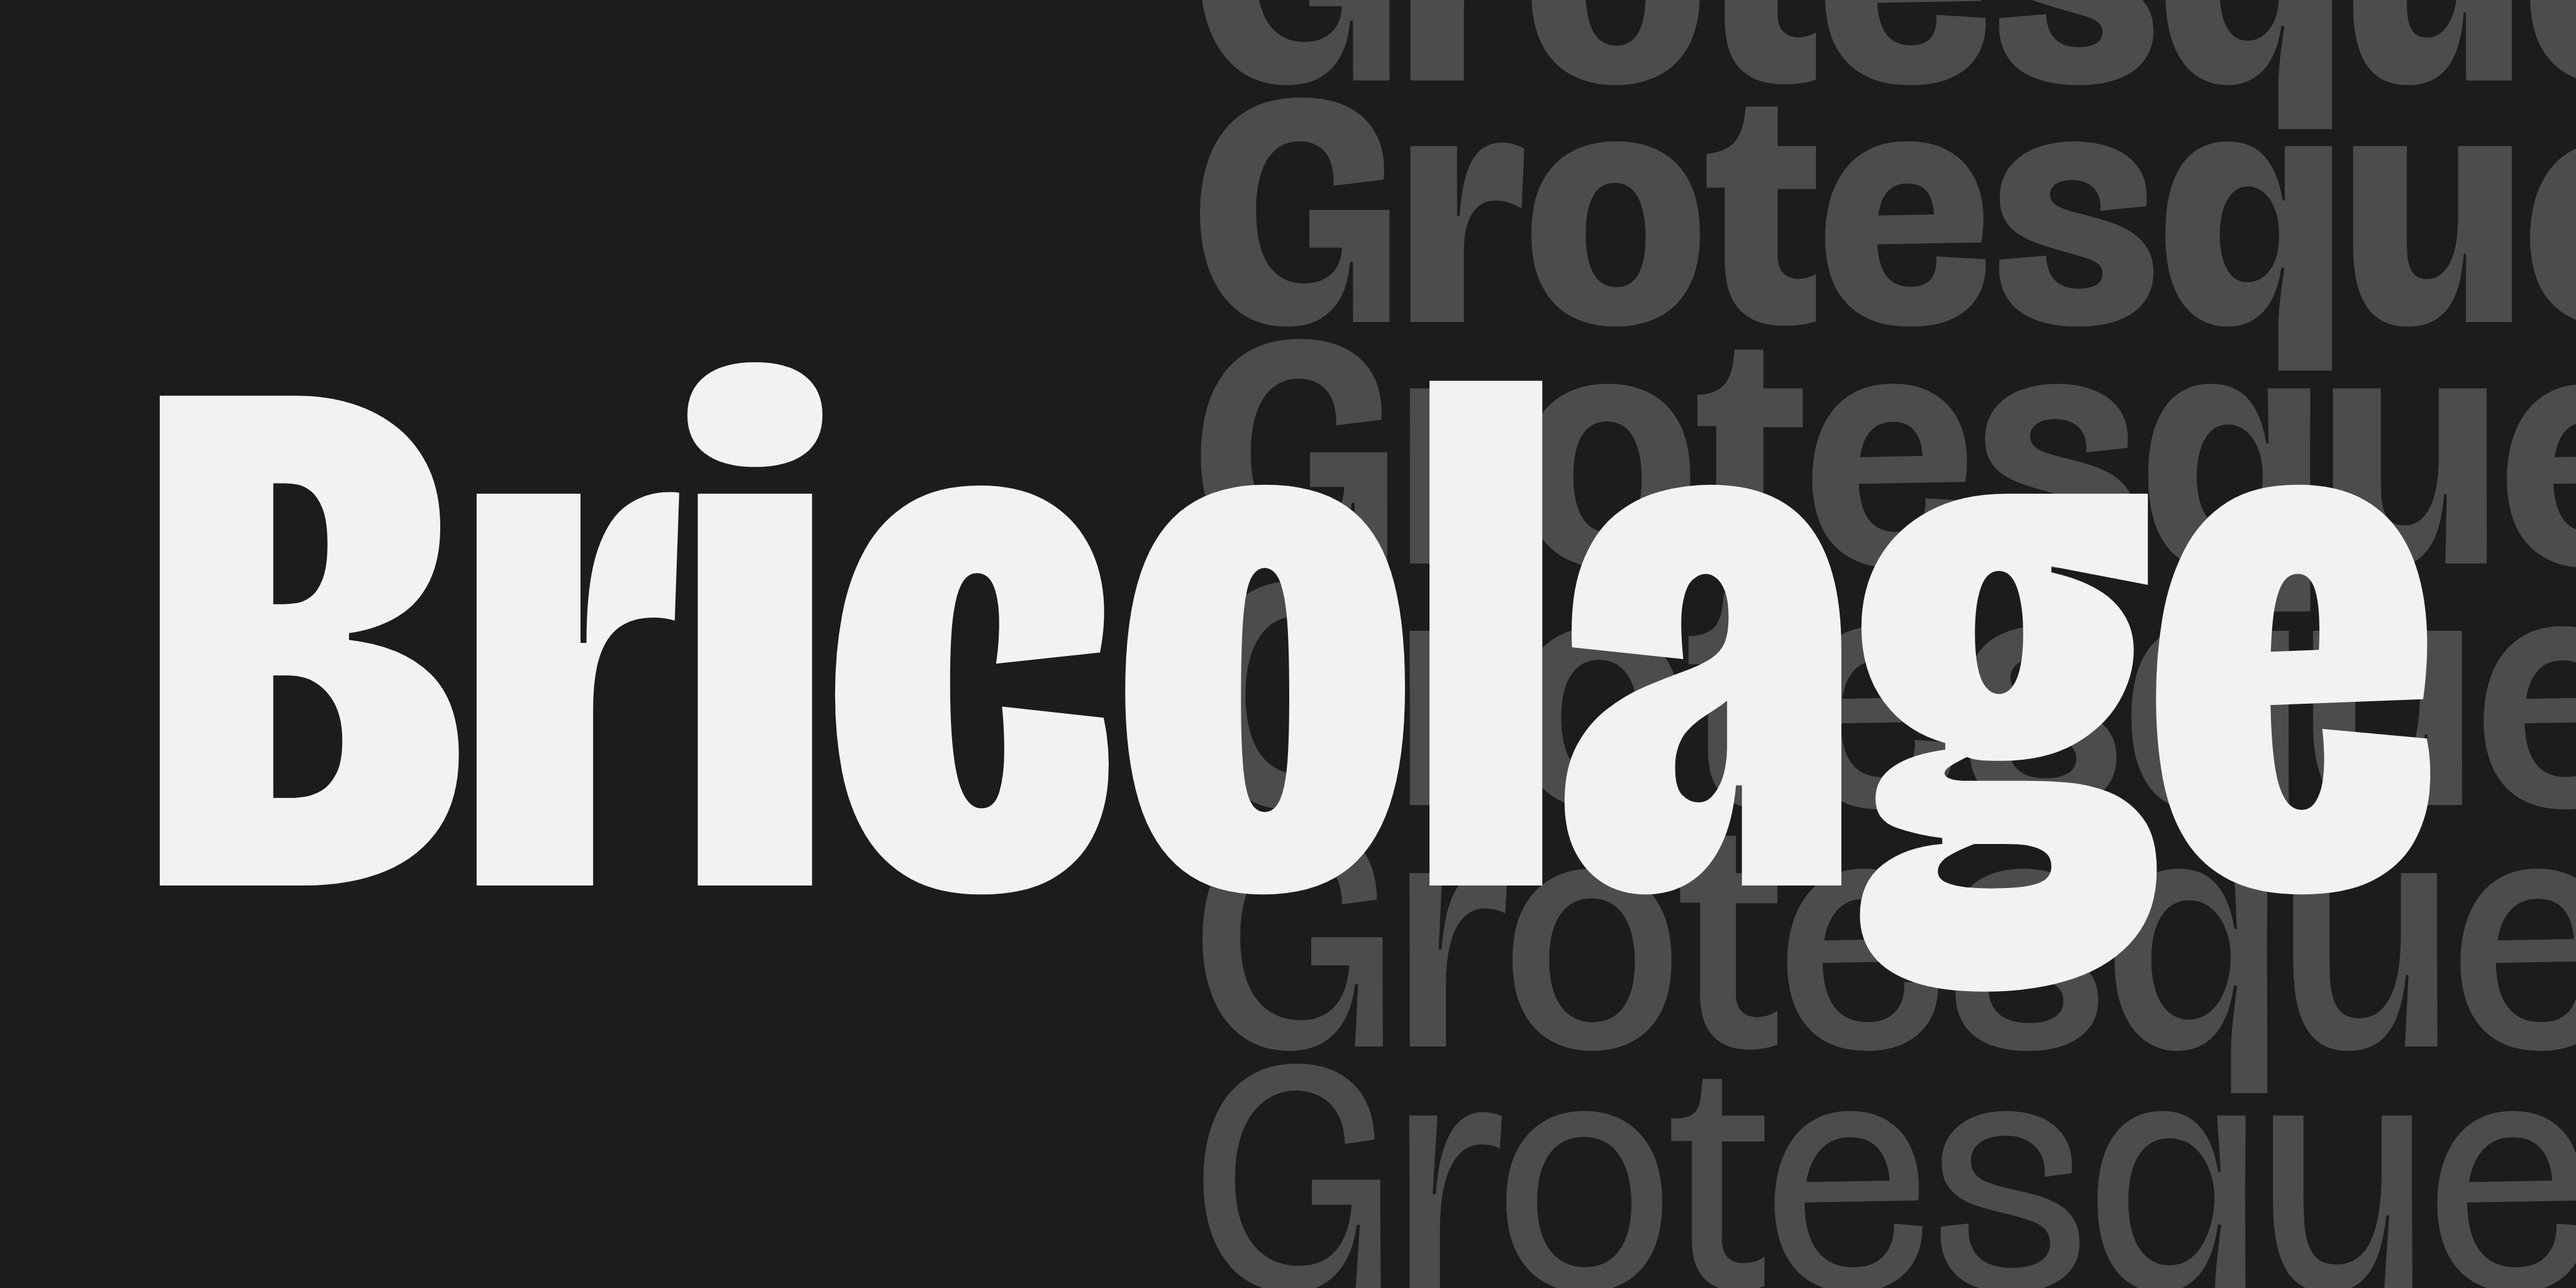
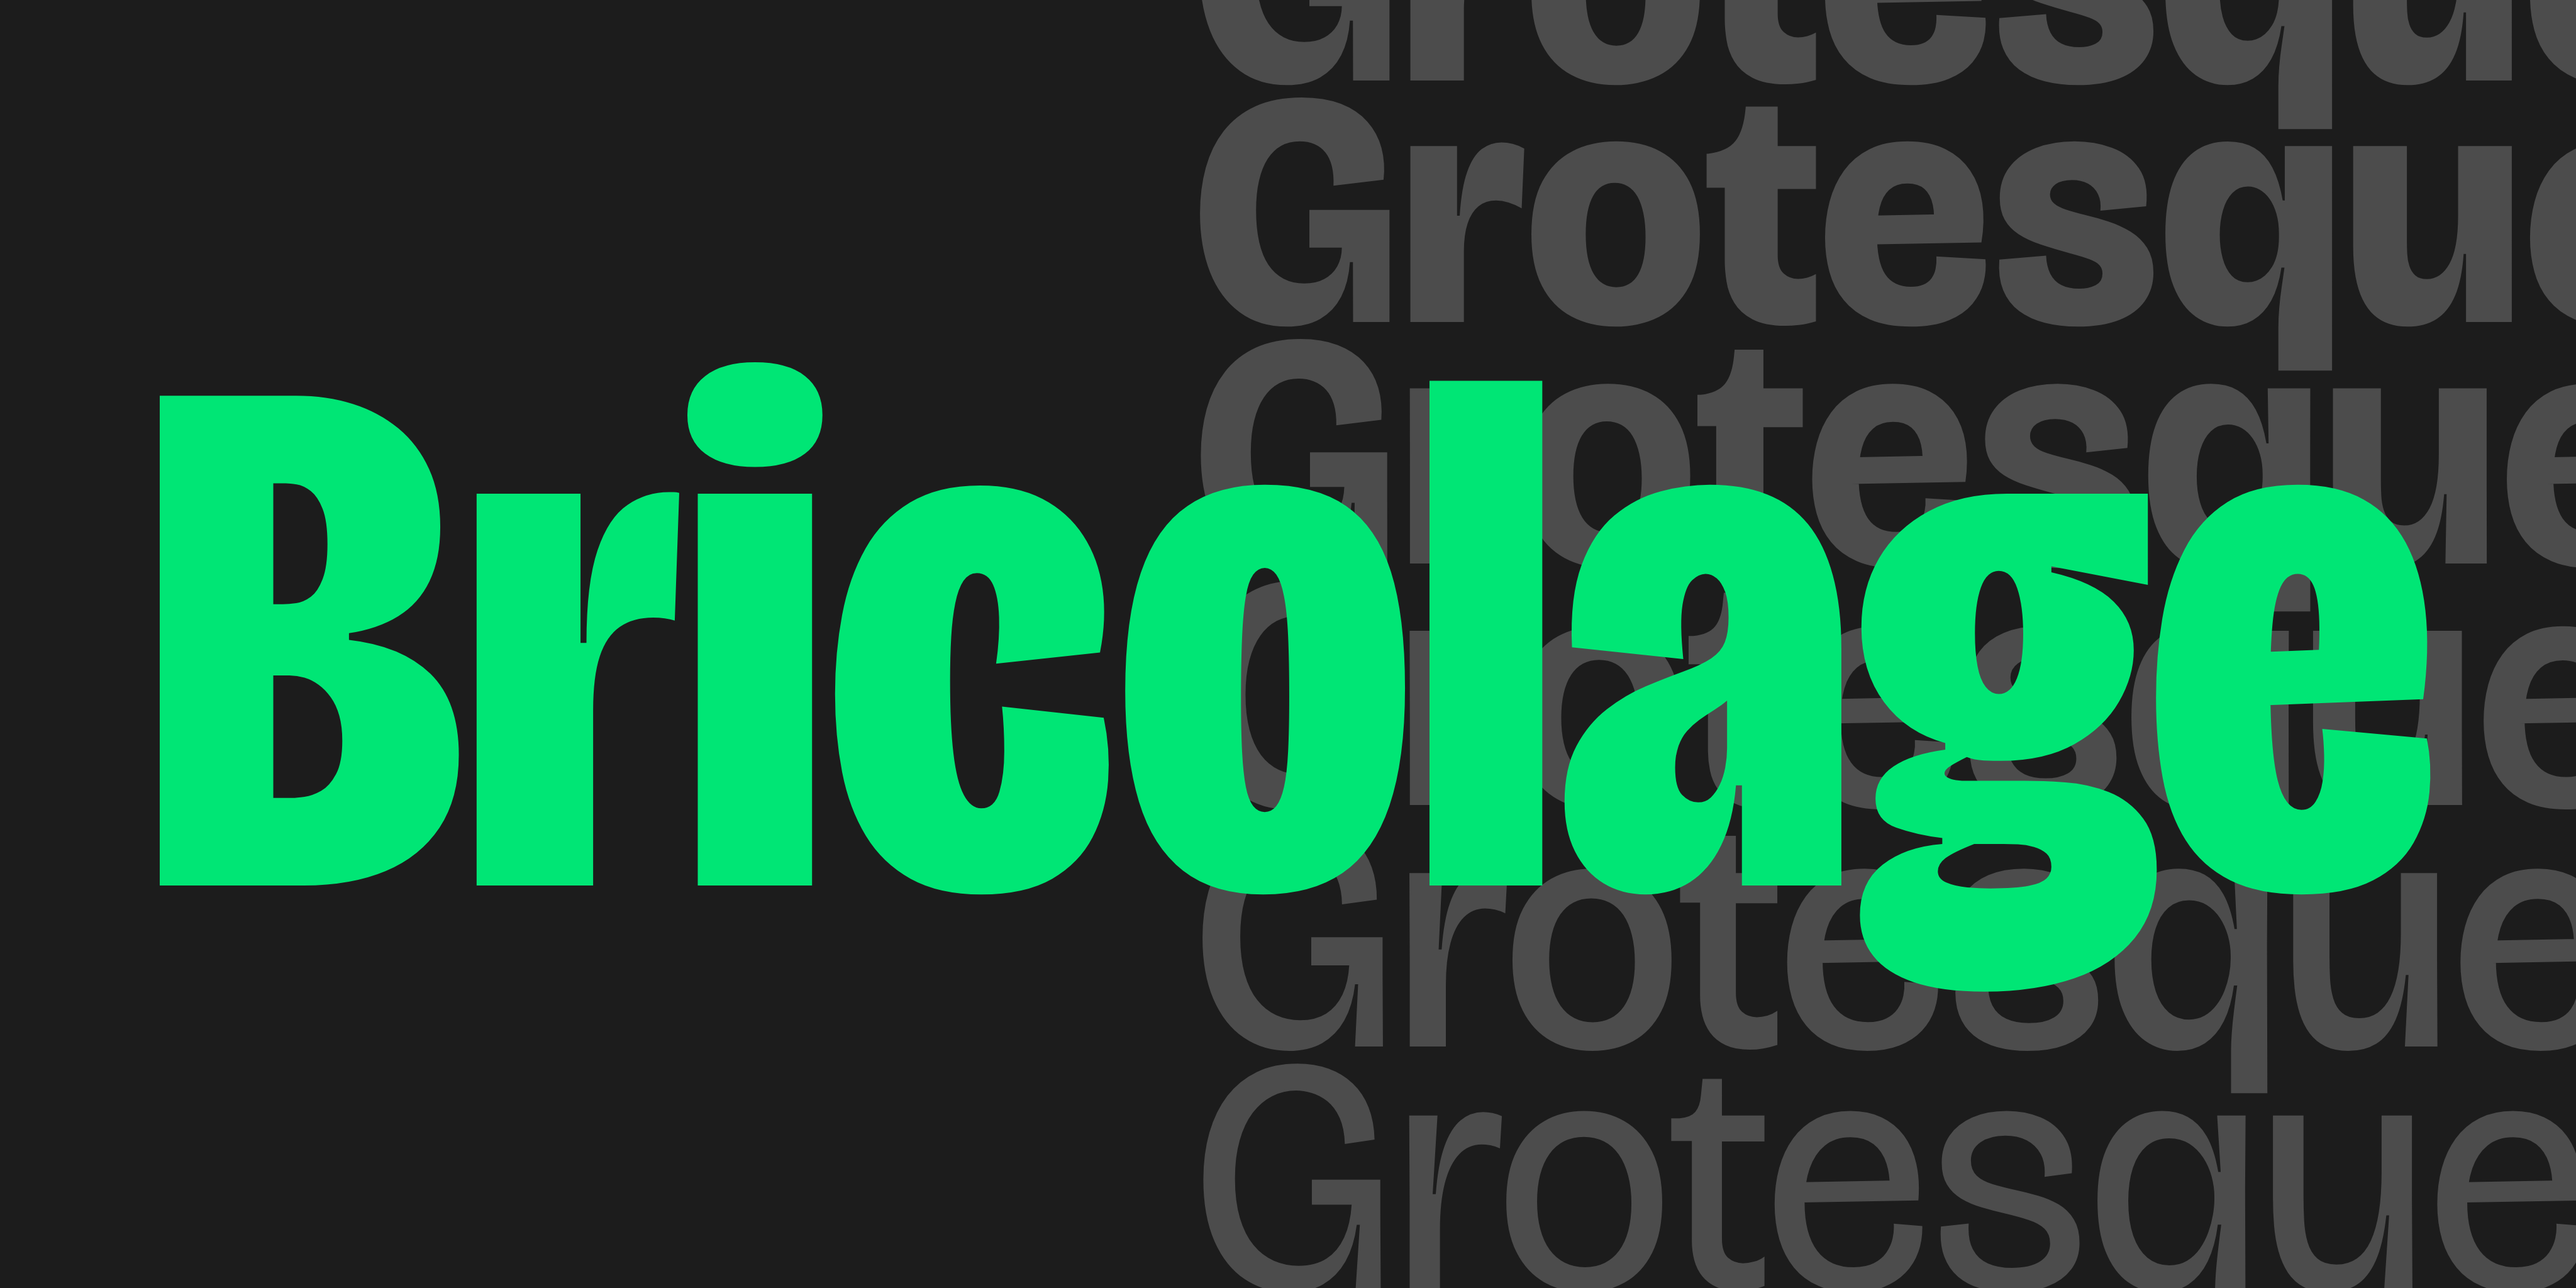
Update Specimens

Changed region(s): [[0.0625, 0.2812, 0.9688, 0.7812]]

diff --git a/documentation/bricolage-003.py b/documentation/bricolage-003.py
@@ -69,7 +69,8 @@ def remap(value, inputMin, inputMax, outputMin, outputMax):
 def draw_background():
     newPage(WIDTH, HEIGHT)
     fill(0.11)
-    # fill(1,0,0)
+    fill(0.9,0.22,0.2)
+    fill(1, 0.84, 0)
     rect(-2, -2, WIDTH + 2, HEIGHT + 2)
     if GRID_VIEW:
         grid()
@@ -79,12 +80,12 @@ def draw_background():
 # Draw main text
 #GRID_VIEW = True
 def draw_main_text():
-    fill(0.95)
+    fill(0.11)
     stroke(None)
     font(FONT_PATH)
     for axis, data in listFontVariations().items():
         print((axis, data))
-    fontSize(530)
+    fontSize(510)
     fontVariations(wght = 900)
     # Adjust this line to center main text manually.
     # TODO: This should be done automatically when drawbot-skia
@@ -95,23 +96,17 @@ def draw_main_text():
 
     step = 0
     wght_step = 400
-    fill(0.9,0.22,0.2)
-    #fill(0.25)
-    fill(0.27,0.35,0.39)
-    fill(0.3)
     for i in range(9):
         fontVariations(wdth = 97)
         fontVariations(wght = wght_step)
-        text("Grotesque", (MARGIN*7.4, MARGIN*(step*1.5)))
+        text("Bricolage Grotesque", (MARGIN*(-0.1), MARGIN*(step*1.5)))
         step += 1
         wght_step += 100
 
     fill(0.95)
-    fill(0.0, 0.9, 0.46)
     fontVariations(wdth = 75)
-    #text("Bricolage", (MARGIN*0.95, MARGIN*3.5))
-    fontSize(1180)
-    text("Bricolage", (MARGIN*0.90, MARGIN*2.5))
+    fontVariations(wght = 900)
+    #text("Bricolage", (MARGIN*0.95, MARGIN*3.325))
 
 
 # Build and save the image

diff --git a/README.md b/README.md
@@ -6,6 +6,7 @@
 ![003](documentation/rubik-003.png)
 ![001](documentation/bricolage-001.png)
 ![001](documentation/bricolage-002.png)
+![001](documentation/bricolage-003.png)
 
 ## License
 
